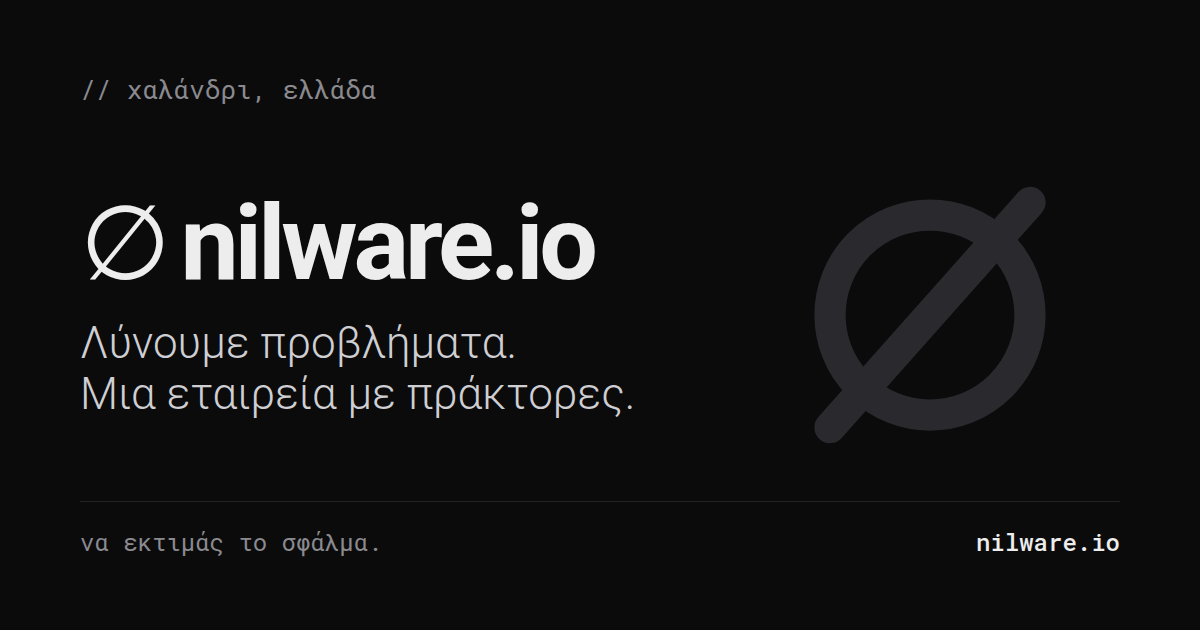
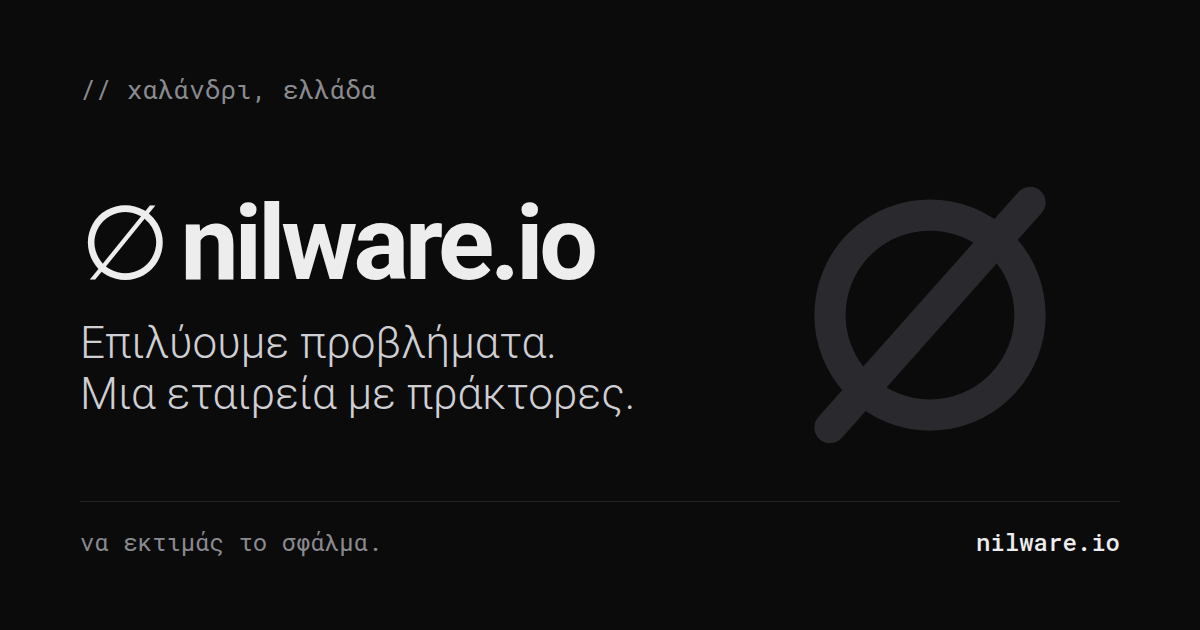
EL: social card tagline Επιλύουμε προβλήματα, og-image-el.png?v=2

Changed region(s): [[0.0617, 0.5127, 0.4625, 0.573]]

diff --git a/index.html b/index.html
@@ -17,17 +17,17 @@
 <meta property="og:locale:alternate" content="en_GB">
 <meta property="og:title" content="∅ nilware.io — επιλύουμε προβλήματα">
 <meta property="og:description" content="Εταιρεία με πράκτορες, από το Χαλάνδρι. Επιλύουμε προβλήματα.">
-<meta property="og:image" content="https://nilware.io/og-image-el.png">
+<meta property="og:image" content="https://nilware.io/og-image-el.png?v=2">
 <meta property="og:image:type" content="image/png">
 <meta property="og:image:width" content="1200">
 <meta property="og:image:height" content="630">
-<meta property="og:image:alt" content="∅ nilware.io: Λύνουμε προβλήματα. Μια εταιρεία με πράκτορες. Χαλάνδρι.">
+<meta property="og:image:alt" content="∅ nilware.io: Επιλύουμε προβλήματα. Μια εταιρεία με πράκτορες. Χαλάνδρι.">
 <meta name="twitter:card" content="summary_large_image">
 <meta name="twitter:site" content="@nilwareio">
 <meta name="twitter:title" content="∅ nilware.io — επιλύουμε προβλήματα">
 <meta name="twitter:description" content="Εταιρεία με πράκτορες, από το Χαλάνδρι. Επιλύουμε προβλήματα.">
-<meta name="twitter:image" content="https://nilware.io/og-image-el.png">
-<meta name="twitter:image:alt" content="∅ nilware.io: Λύνουμε προβλήματα. Μια εταιρεία με πράκτορες. Χαλάνδρι.">
+<meta name="twitter:image" content="https://nilware.io/og-image-el.png?v=2">
+<meta name="twitter:image:alt" content="∅ nilware.io: Επιλύουμε προβλήματα. Μια εταιρεία με πράκτορες. Χαλάνδρι.">
 <link rel="icon" href="favicon.svg" type="image/svg+xml">
 <link rel="preconnect" href="https://fonts.googleapis.com">
 <link rel="preconnect" href="https://fonts.gstatic.com" crossorigin>
